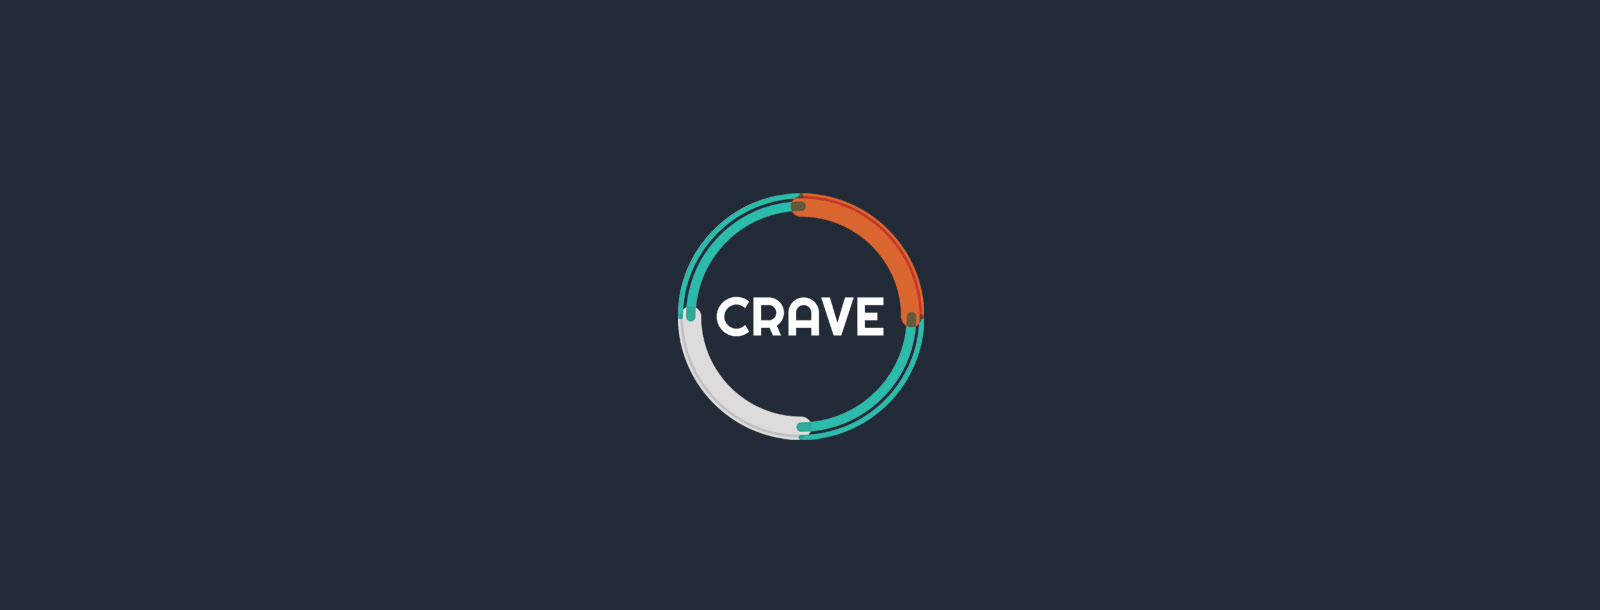
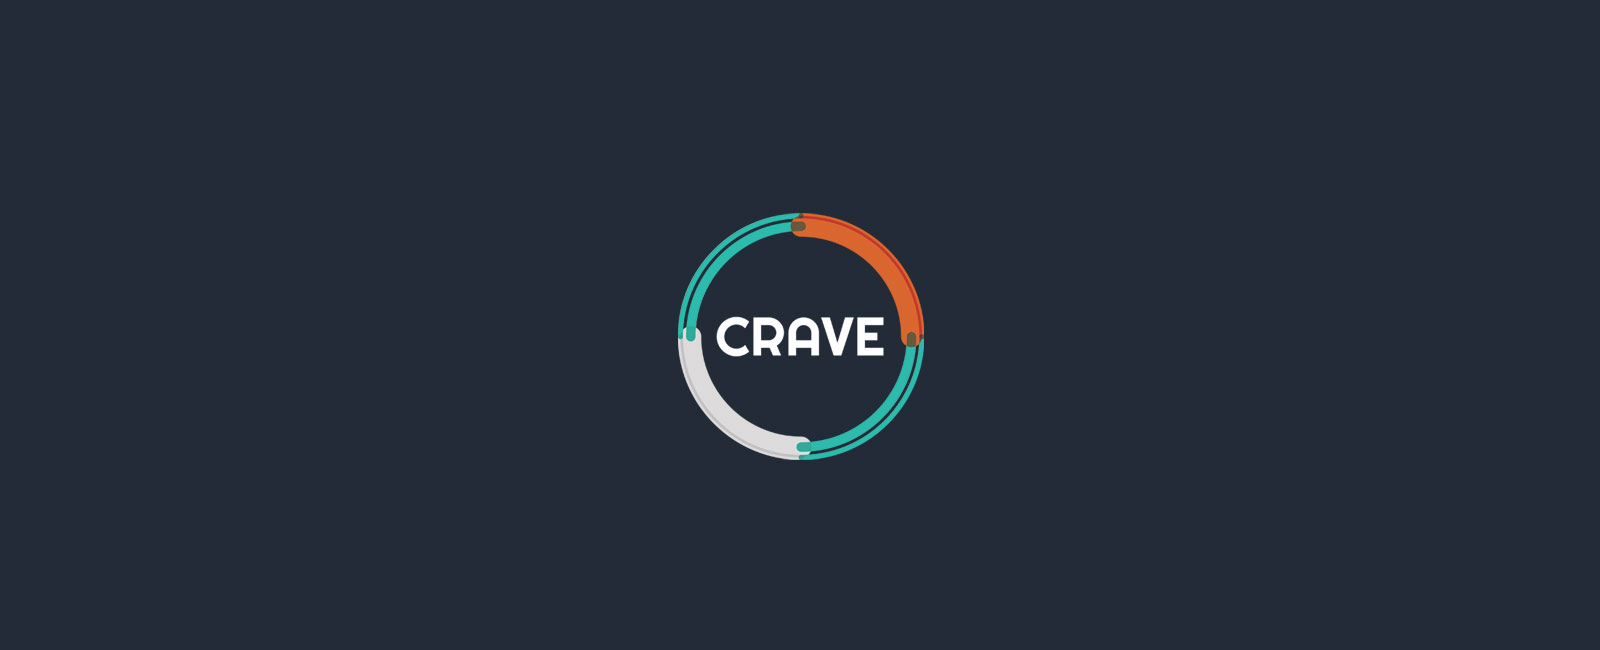
minor styling to homepage

diff --git a/app/assets/stylesheets/welcome.css.scss b/app/assets/stylesheets/welcome.css.scss
@@ -28,7 +28,7 @@ section.module.content {
   padding: 40px 0;
 }
 section.module.parallax {
-  height: 610px;
+  height: 650px;
   background-position: 50% 50%;
   background-repeat: no-repeat;
   background-attachment: fixed;
